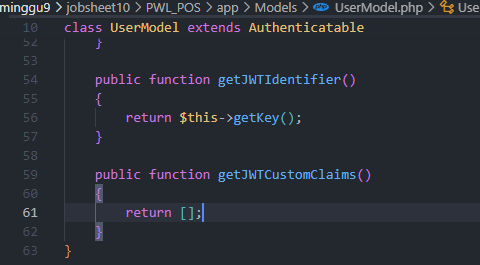
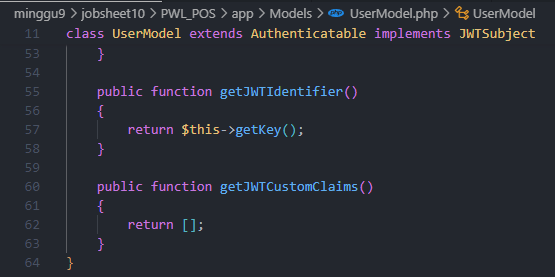
Jobsheet-10: Praktikum 2

diff --git a/minggu9/jobsheet10/PWL_POS/app/Http/Controllers/Api/LoginController.php b/minggu9/jobsheet10/PWL_POS/app/Http/Controllers/Api/LoginController.php
@@ -1,0 +1,42 @@
+<?php
+
+namespace App\Http\Controllers\Api;
+
+use App\Http\Controllers\Controller;
+use Illuminate\Http\Request;
+use Illuminate\Support\Facades\Validator;
+
+class LoginController extends Controller
+{
+    public function __invoke(Request $request)
+    {
+        //set validation 
+        $validator = Validator::make($request->all(), [
+            'username' => 'required',
+            'password' => 'required'
+        ]);
+
+        //if validation fails 
+        if ($validator->fails()) {
+            return response()->json($validator->errors(), 422);
+        }
+
+        //get credentials from request 
+        $credentials = $request->only('username', 'password');
+
+        //if auth failed 
+        if (!$token = auth()->guard('api')->attempt($credentials)) {
+            return response()->json([
+                'success' => false,
+                'message' => 'Username atau Password Anda salah'
+            ], 401);
+        }
+
+        //if auth success 
+        return response()->json([
+            'success' => true,
+            'user' => auth()->guard('api')->user(),
+            'token' => $token
+        ], 200);
+    }
+}

diff --git a/minggu9/jobsheet10/PWL_POS/routes/api.php b/minggu9/jobsheet10/PWL_POS/routes/api.php
@@ -1,5 +1,6 @@
 <?php
 
+use App\Http\Controllers\Api\LoginController;
 use App\Http\Controllers\Api\RegisterController;
 use Illuminate\Http\Request;
 use Illuminate\Support\Facades\Route;
@@ -15,9 +16,13 @@ use Illuminate\Support\Facades\Route;
 |
 */
 
-Route::middleware('auth:sanctum')->get('/user', function (Request $request) {
-    return $request->user();
-});
+// Route::middleware('auth:sanctum')->get('/user', function (Request $request) {
+//     return $request->user();
+// });
 
 
 Route::post('/register', RegisterController::class)->name('register');
+Route::post('/login', LoginController::class)->name('login');
+Route::middleware('auth:api')->get('/user', function (Request $request) {
+    return $request->user();
+});

diff --git a/minggu9/jobsheet10/PWL_POS/app/Models/UserModel.php b/minggu9/jobsheet10/PWL_POS/app/Models/UserModel.php
@@ -6,8 +6,9 @@ use Illuminate\Database\Eloquent\Factories\HasFactory;
 use Illuminate\Database\Eloquent\Model;
 use Illuminate\Database\Eloquent\Relations\BelongsTo;
 use Illuminate\Foundation\Auth\User as Authenticatable;
+use Tymon\JWTAuth\Contracts\JWTSubject;
 
-class UserModel extends Authenticatable
+class UserModel extends Authenticatable implements JWTSubject
 {
     use HasFactory;
 

diff --git a/minggu9/jobsheet10/README.md b/minggu9/jobsheet10/README.md
@@ -44,3 +44,23 @@
     - Data Valid
         
         ![alt text](ss/1.9.2.png)
+
+---
+
+## Praktikum 2 - Membuat RESTful API Login
+1. **Membuat controller di `controller/Api/LoginController`**
+
+    ![alt text](ss/2.1.png)
+2. **Menambahkan route register di `routes/api.php`**
+    
+    ![alt text](ss/2.2.png)
+3. **Hasil**
+    - Data Kosong
+        
+        ![alt text](ss/2.3.1.png)
+    - Sukses
+        
+        ![alt text](ss/2.3.2.png)
+    - Username atau Password Salah
+        
+        ![alt text](ss/2.3.3.png)
